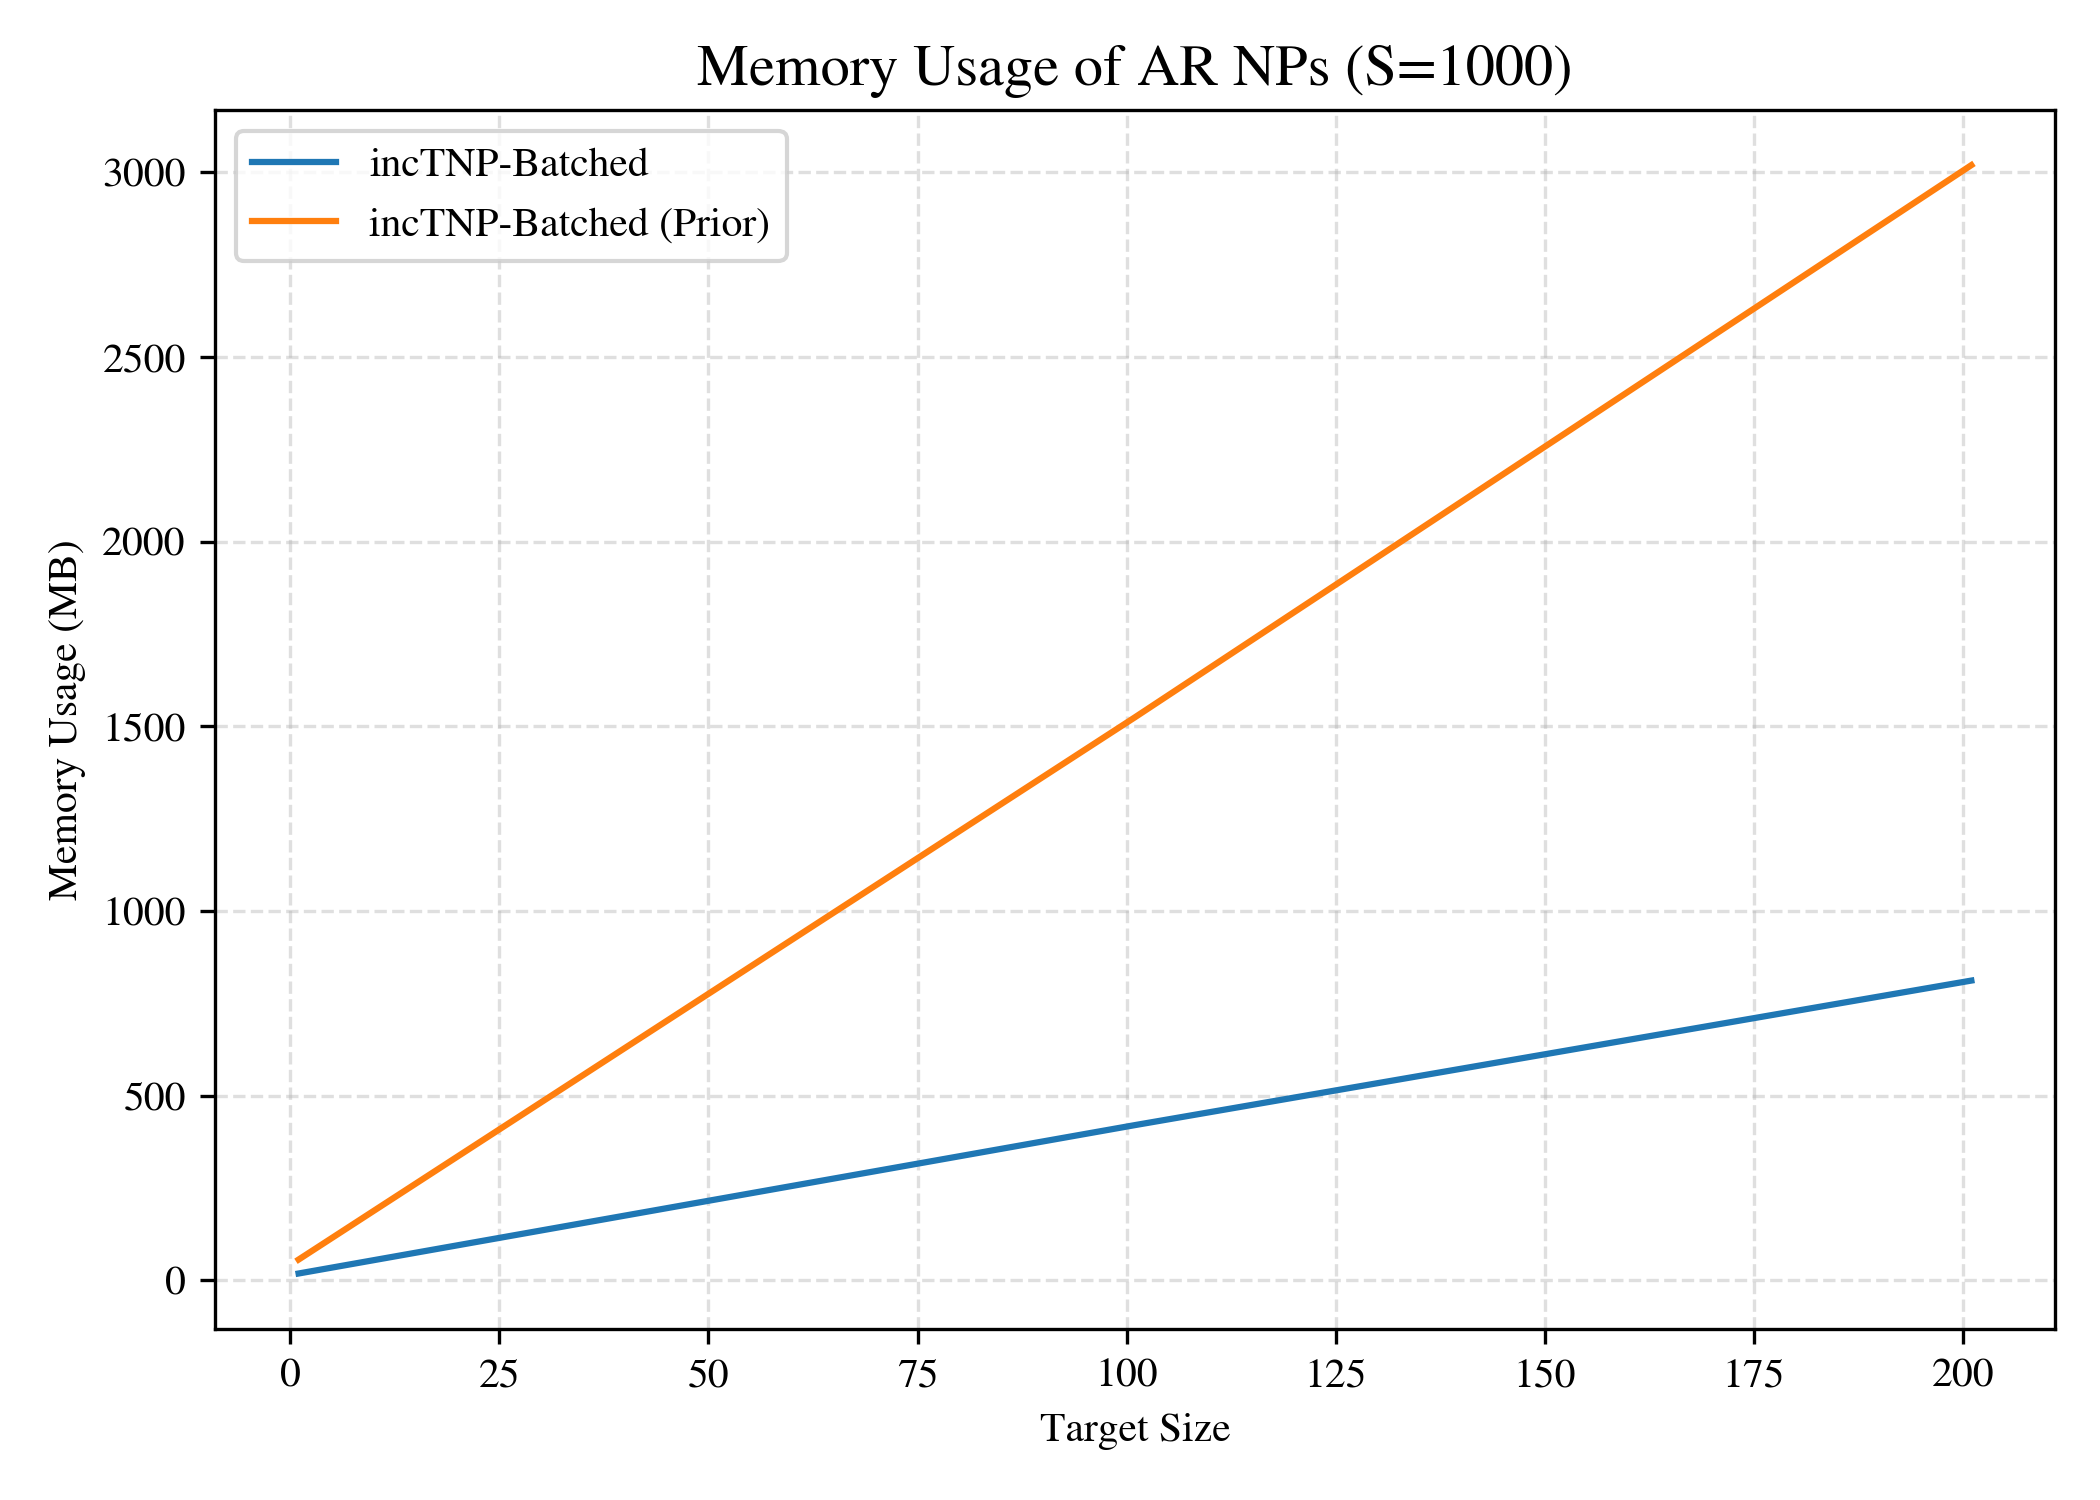
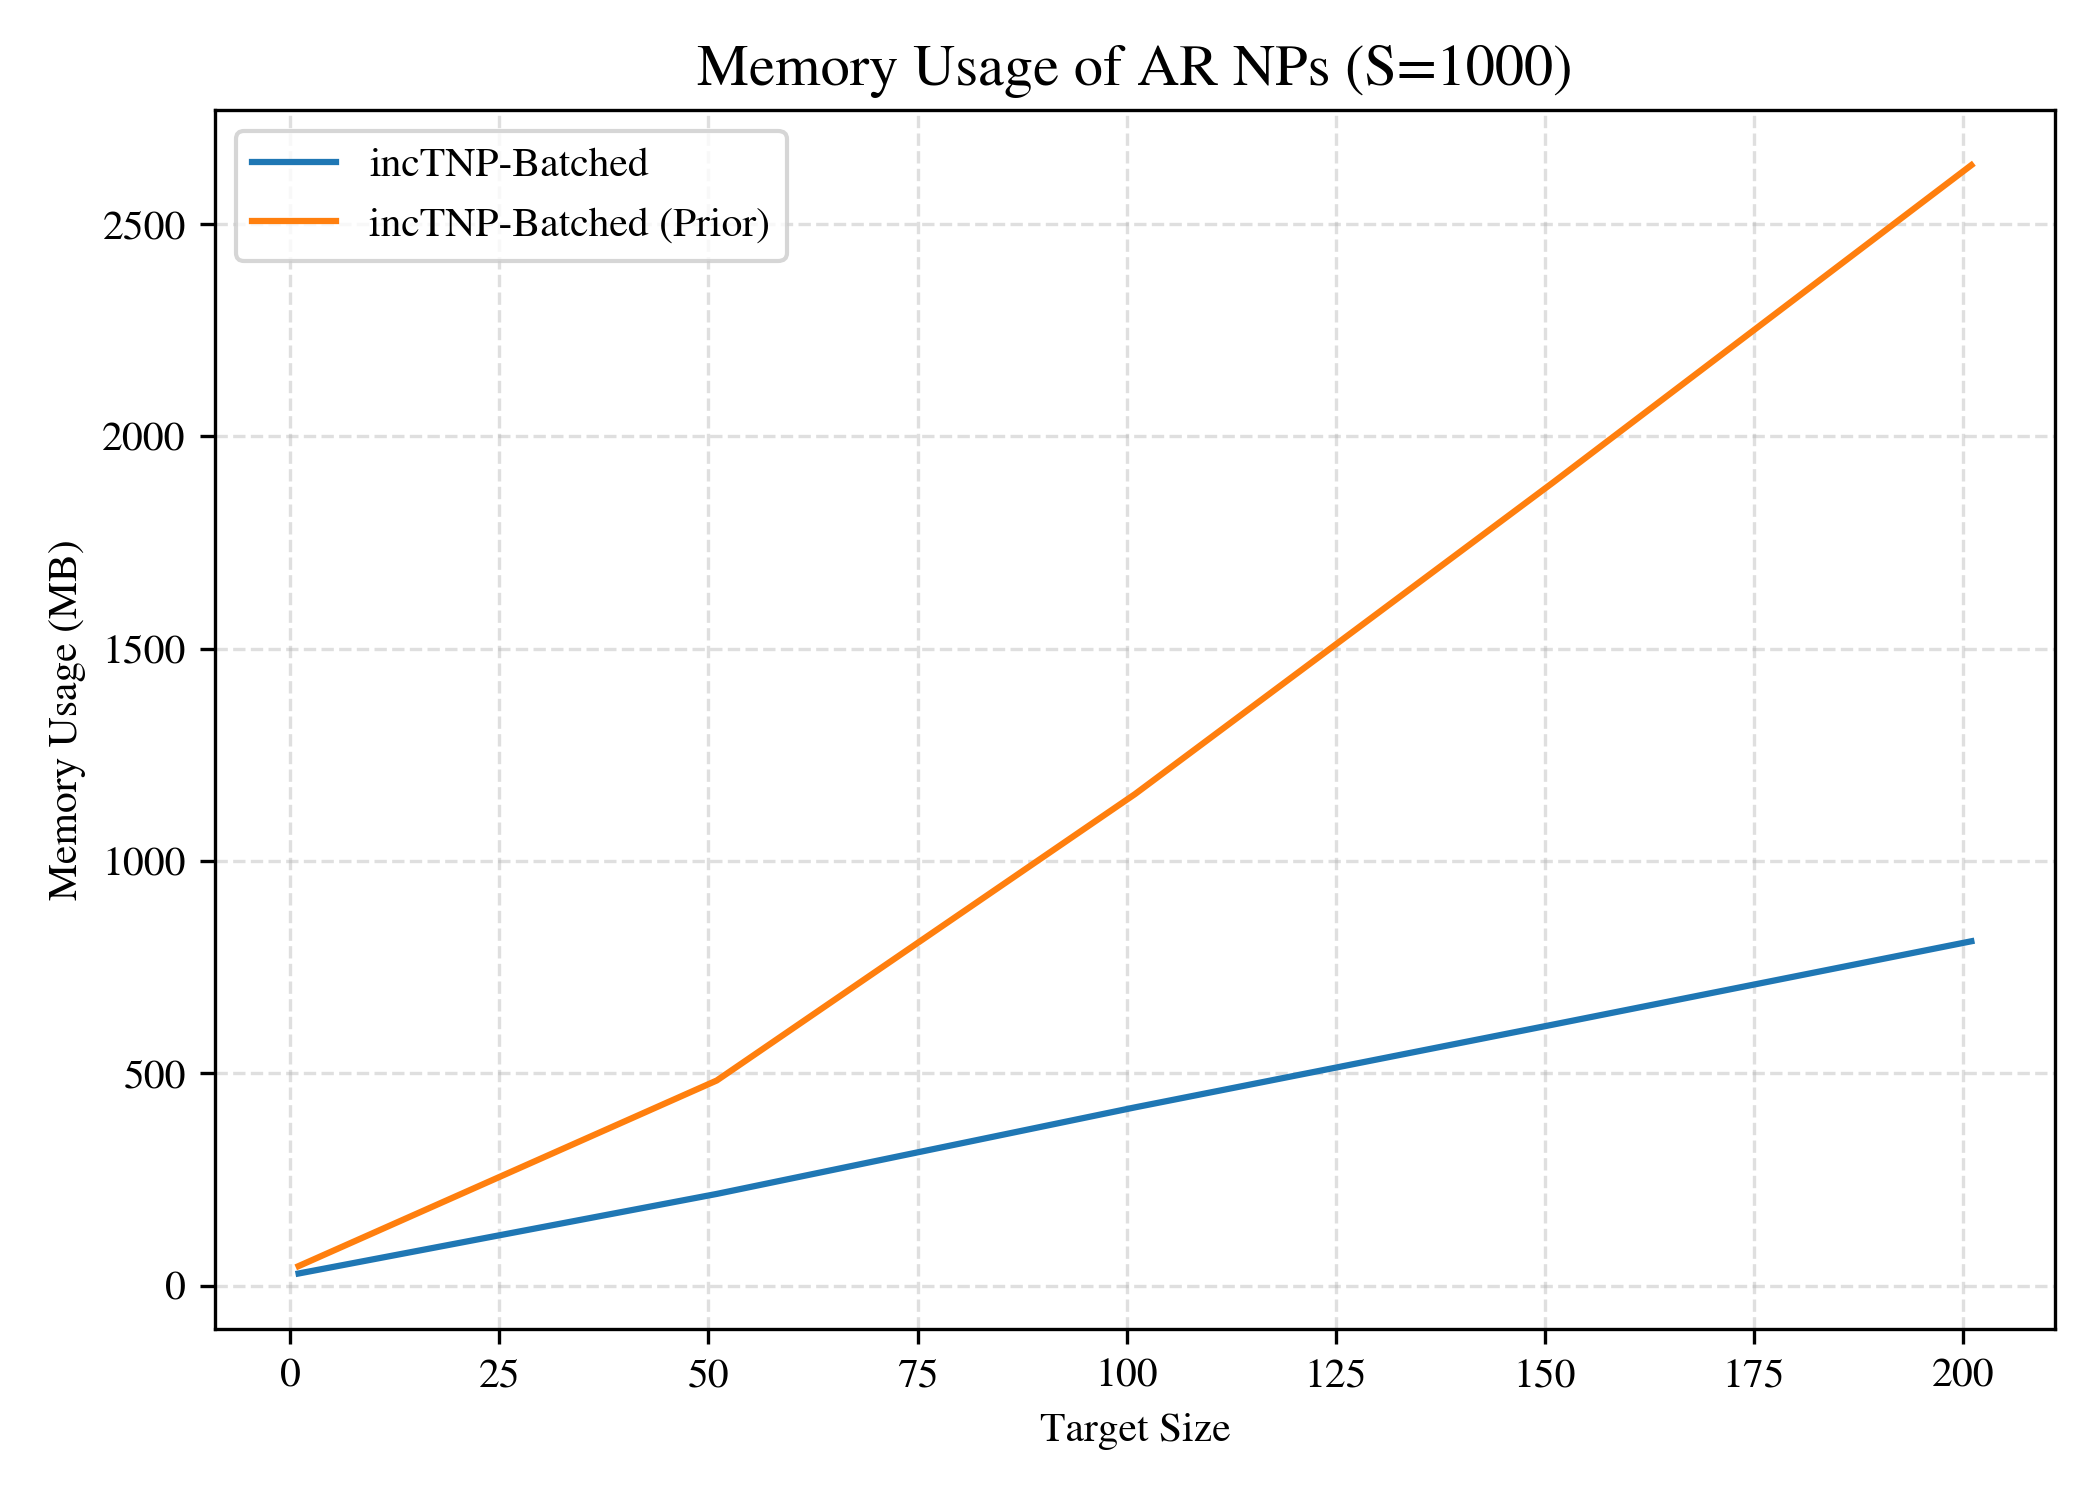
Reverted kv changes

diff --git a/tnp/models/incTNPBatchedPrior.py b/tnp/models/incTNPBatchedPrior.py
@@ -165,28 +165,44 @@ class IncTNPBatchedPrior(BatchedCausalTNPPrior, IncUpdateEff):
 
 
     # Logic for effecient incremental context updates
+    #def init_inc_structs(self, m: int, max_nc: int, device: str):
+    #    # Adds empty token
+    #    start_token = self.encoder.empty_token.expand(m, -1, -1)
+    #    dz = start_token.shape[2]
+    #   layers = len(self.encoder.transformer_encoder.mhsa_layers)
+    #    heads = self.encoder.transformer_encoder.mhsa_layers[0].attn.num_heads
+    #    head_dim = int(round(self.encoder.transformer_encoder.mhsa_layers[0].attn.scale ** -2))
+    #    #kv_dim = self.encoder.transformer_encoder.mhsa_layers[0].qk_dim
+    #    self.kv_cache_inc = init_kv_cache_fixed(layers=layers, batch_size=m, max_nc=max_nc+1, dz=dz, 
+    #        heads=heads, k_dim=head_dim, v_dim=head_dim, device=device)
+    #   self.encoder.transformer_encoder.encode_context_fixedkv(start_token, self.kv_cache_inc)
+
+
+    # Adds new context points
+    #def update_ctx(self, xc: torch.Tensor, yc: torch.Tensor):
+    #    zc = self.encoder._preprocess_context(xc, yc)
+    #    self.encoder.transformer_encoder.encode_context_fixedkv(zc, self.kv_cache_inc)
+
+    #def query(self, xt: torch.Tensor, dy: int) -> td.Normal:
+    #    zt = self.encoder._preprocess_targets(xt, dy)
+    #    return self.likelihood(self.decoder(self.encoder.transformer_encoder.query_fixedkv(zt, self.kv_cache_inc), xt))
+
+    # Logic for effecient incremental context updates
     def init_inc_structs(self, m: int, max_nc: int, device: str):
+        self.kv_cache_inc = init_kv_cache()
         # Adds empty token
         start_token = self.encoder.empty_token.expand(m, -1, -1)
-        dz = start_token.shape[2]
-        layers = len(self.encoder.transformer_encoder.mhsa_layers)
-        heads = self.encoder.transformer_encoder.mhsa_layers[0].attn.num_heads
-        head_dim = int(round(self.encoder.transformer_encoder.mhsa_layers[0].attn.scale ** -2))
-        #kv_dim = self.encoder.transformer_encoder.mhsa_layers[0].qk_dim
-        self.kv_cache_inc = init_kv_cache_fixed(layers=layers, batch_size=m, max_nc=max_nc+1, dz=dz, 
-            heads=heads, k_dim=head_dim, v_dim=head_dim, device=device)
-        self.encoder.transformer_encoder.encode_context_fixedkv(start_token, self.kv_cache_inc)
+        self.encoder.update_context(start_token, self.kv_cache_inc)
 
 
     # Adds new context points
     def update_ctx(self, xc: torch.Tensor, yc: torch.Tensor):
         zc = self.encoder._preprocess_context(xc, yc)
-        self.encoder.transformer_encoder.encode_context_fixedkv(zc, self.kv_cache_inc)
+        self.encoder.update_context(zc, self.kv_cache_inc)
 
     def query(self, xt: torch.Tensor, dy: int) -> td.Normal:
         zt = self.encoder._preprocess_targets(xt, dy)
-        return self.likelihood(self.decoder(self.encoder.transformer_encoder.query_fixedkv(zt, self.kv_cache_inc), xt))
-
+        return self.likelihood(self.decoder(self.encoder.query(zt, self.kv_cache_inc), xt))
 
     # Greedy Context ordering algorithm using KV caching. Note it is incremental (so given an initial context set + a number of new ctx points it can pick the best order)
     # This approach assumes we already have all context points.

diff --git a/experiments/arnp.py b/experiments/arnp.py
@@ -171,10 +171,10 @@ def ar_predict(model, xc: torch.Tensor, yc: torch.Tensor, xt: torch.Tensor,
 # Measures timings of different models
 def measure_perf_timings():
     # Measure hypers
-    burn_in = 0 # Number of burn in runs to ignore
+    burn_in = 1 # Number of burn in runs to ignore
     aggregate_over = 1 # Number of runs to aggregate data over
-    token_step = 2500 # How many increments of tokens to go up in
-    min_nt, max_nt = 1, 5002
+    token_step = 25 # How many increments of tokens to go up in
+    min_nt, max_nt = 1, 203
     dx, dy, m = 1, 1, 1
     nc_start = 1
     num_samples=50 # Samples to unroll in ar_predict

diff --git a/tnp/networks/kv_cache_fixed.py b/tnp/networks/kv_cache_fixed.py
@@ -15,8 +15,8 @@ def update_kv_cache_fixed(k_new, v_new, cache: Optional[dict], cache_id):
     _, _, _, v_dim = v_new.shape
     k, v, write_idx = cache[cache_id]
     total = write_idx + new_pts
-    k[:,:,write_idx:total,:] = k_new
-    v[:,:, write_idx:total,:] = v_new
+    k[:,:,write_idx:total,:].copy_(k_new)
+    v[:,:,write_idx:total,:].copy_(v_new)
     cache[cache_id] = (k, v, total)
 
     return k[:, :,:total,:], v[:,:,:total,:]
